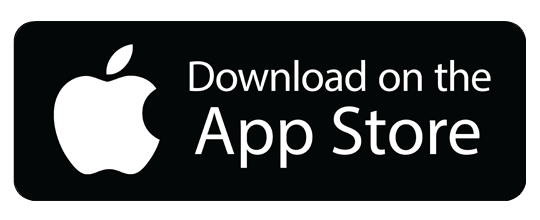
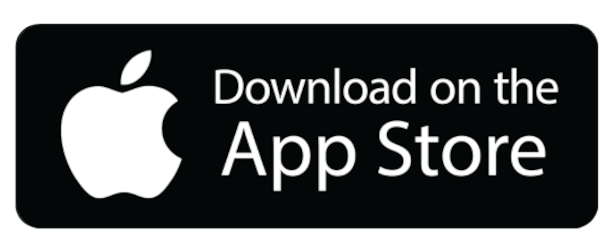
Mais CSS

diff --git a/style.css b/style.css
@@ -100,7 +100,37 @@ body {
     padding: 1rem;
 }
 .app-download {
-    height: 3rem;
+    height: 4rem;
     width: 10rem;
     background-size: cover;
+}
+.app-download:nth-child(1) {
+    background-image: url('imagens/apple-store-button.png');
+}
+.app-download:nth-child(2) {
+    background-image: url('imagens/pt-br_badge_web_generic.png');
+}
+
+@media (max-width: 1024px) {
+    .instagram-wrapper{
+        width: 90%;
+    }
+}
+
+@media (max-width: 650px) {
+    body{
+        background-color: white;
+    }
+    .instagram-wrapper{
+        width: 90%;
+    }
+    .instagram-phone{
+        display: none;
+    }
+    .instagram-continue{
+        width: 100%;
+    }
+    .group{
+        border: 1px solid transparent;
+    }
 }

diff --git a/index.html b/index.html
@@ -21,7 +21,6 @@
                 <a href="#"class="instagram-login">Continue como Liv_barbosa</a>
                 <a href="#"class="instagram-logout">Remover conta</a>
             </div>
-            
             <div class="group">
                 <p class="not-account">Não é Liv_barbosa?</p>
                 <p class="not-account">
